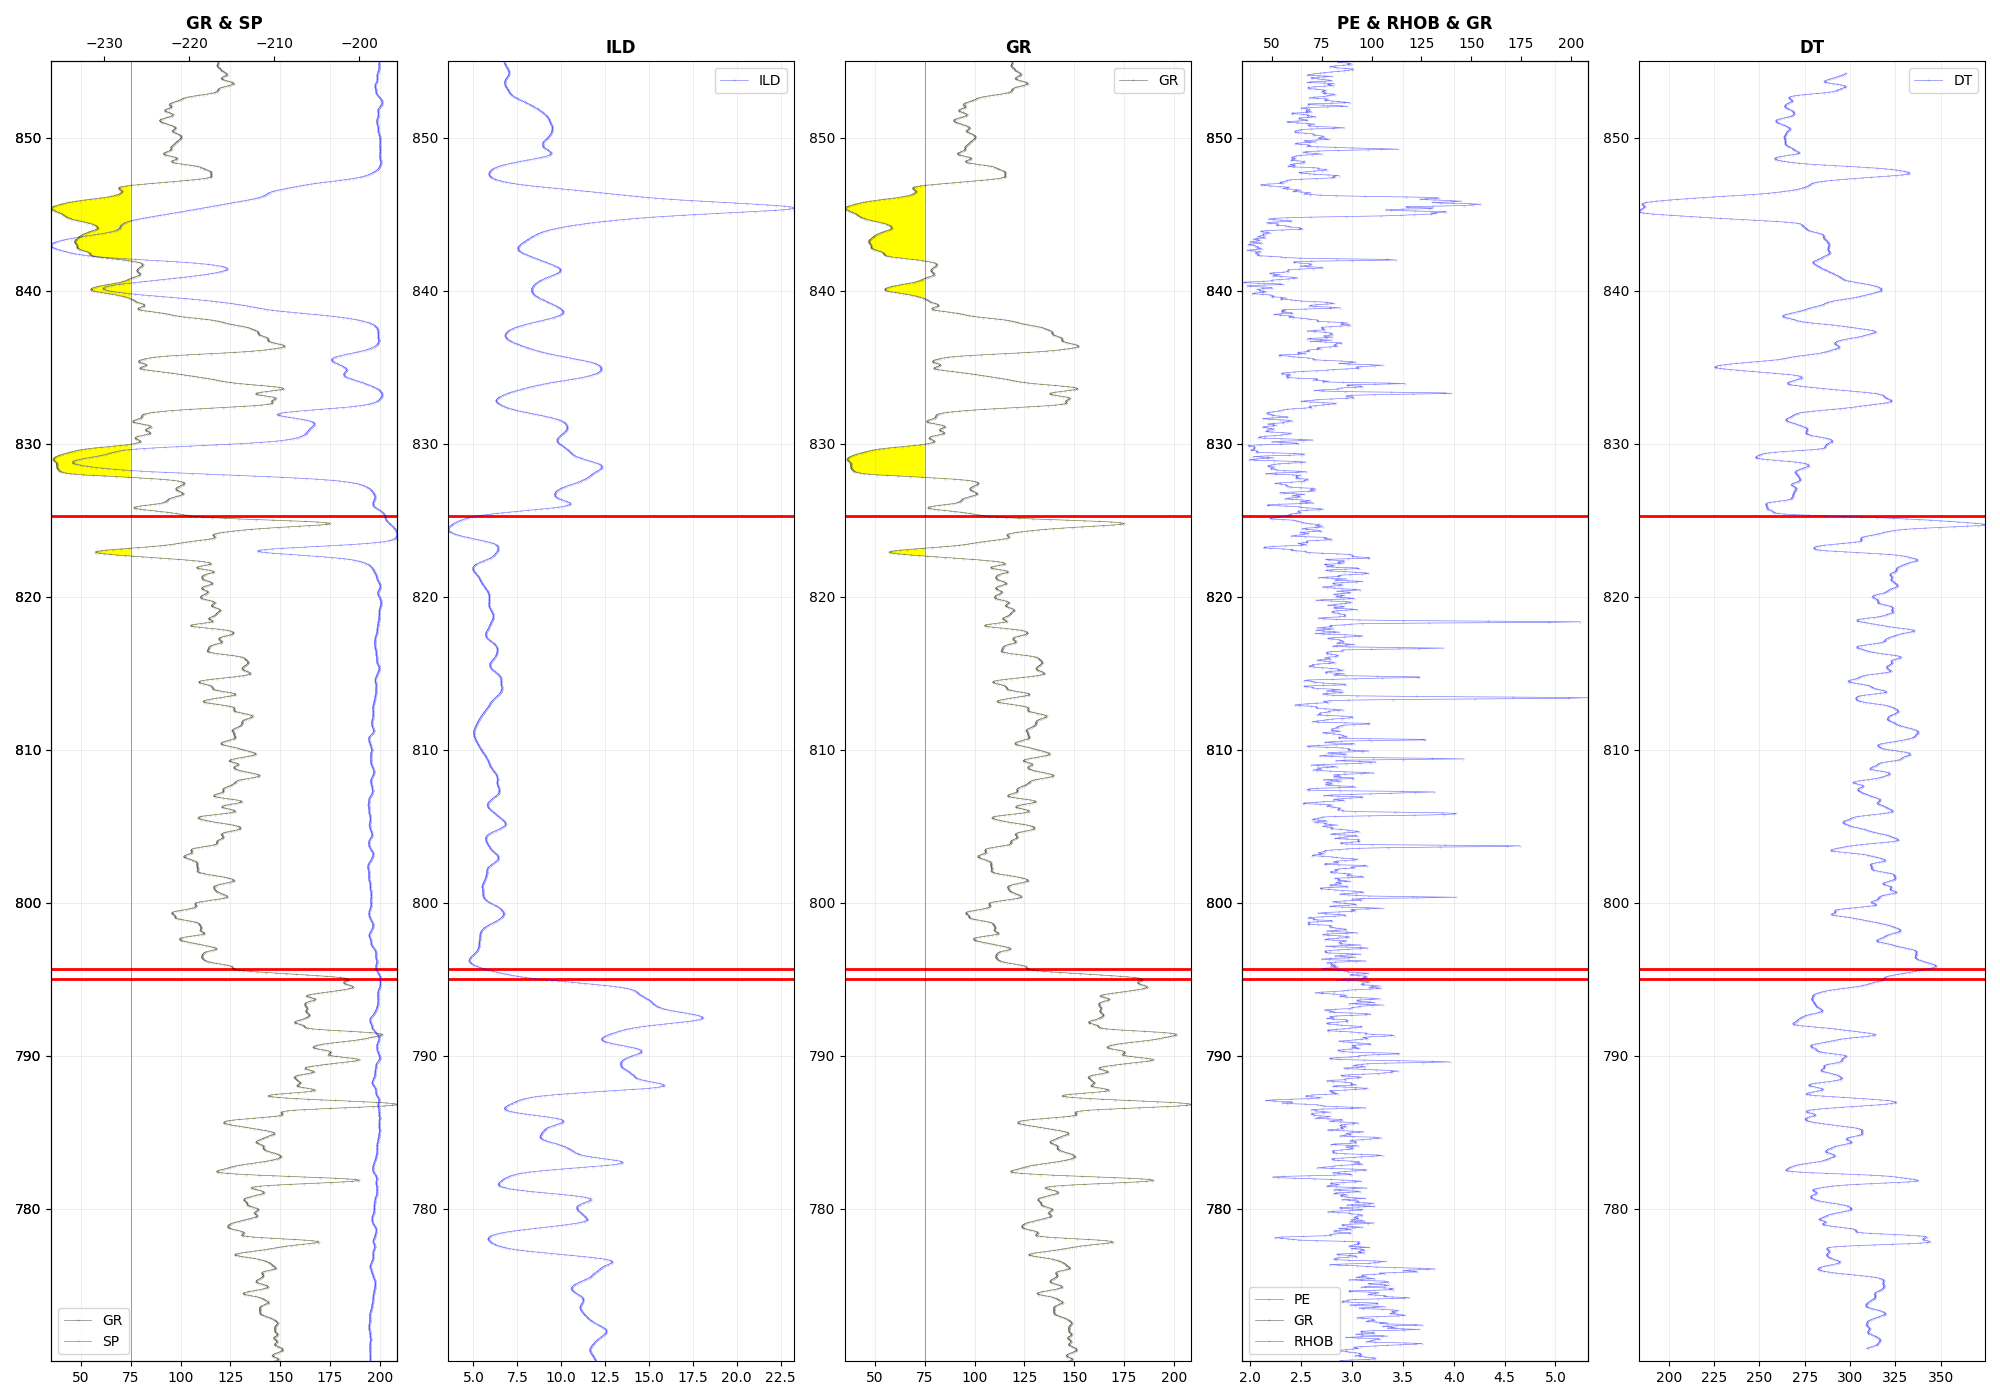
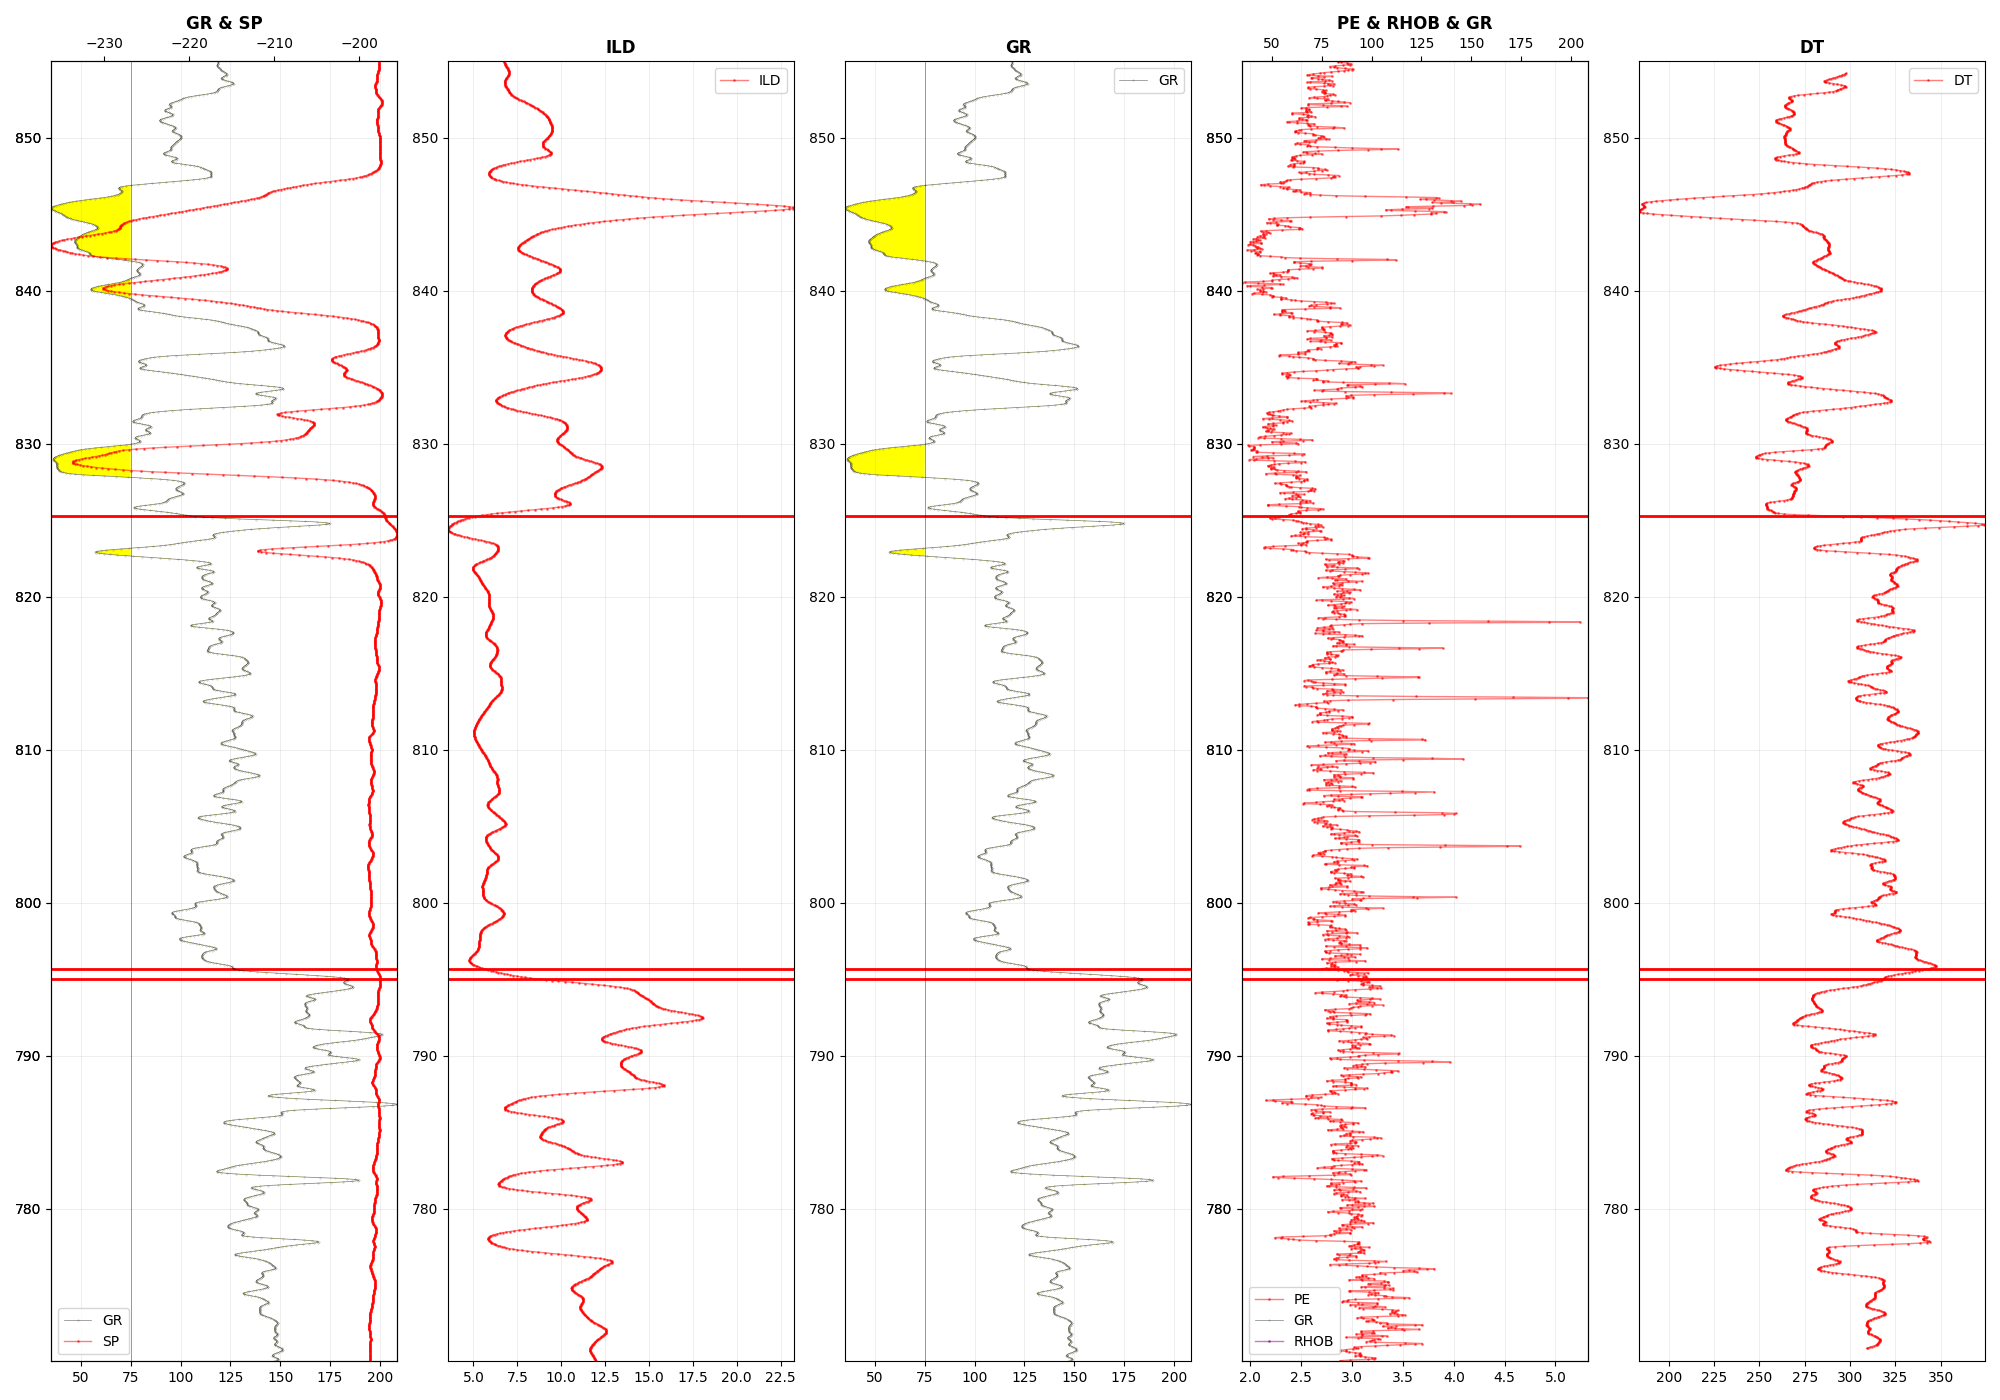
coloring

diff --git a/examples/allcurves_andy0612_driver.py b/examples/allcurves_andy0612_driver.py
@@ -29,6 +29,9 @@ def main():
         # creating a new x-axis on the top for next curve but for same graph
         ax2 = ax.twiny() if len(curves) > 1 else None
 
+        colors = ['red', 'purple', 'blue', 'green', 'orange']
+        color_index = 0
+
         for j, curve in enumerate(curves):
             print(f'Plotting curve: {curve}...')
             if curve == 'GR':
@@ -41,8 +44,9 @@ def main():
             else:
                 next_ax = ax2 if j > 0 and ax2 else ax
                 df.plot(
-                    x=curve, y='DEPTH', color='blue', ax=next_ax, label=curve,
-                    linewidth=0.5, marker='o', markersize=0.2, alpha=0.5)
+                    x=curve, y='DEPTH', color=colors[color_index], ax=next_ax, label=curve,
+                    linewidth=1, marker='o', markersize=1, alpha=0.5)
+                color_index = (color_index + 1) % len(colors)
 
         # adjusting proper y limits and x limits
         ax.set_ylim(df['DEPTH'].min(), df['DEPTH'].max())
